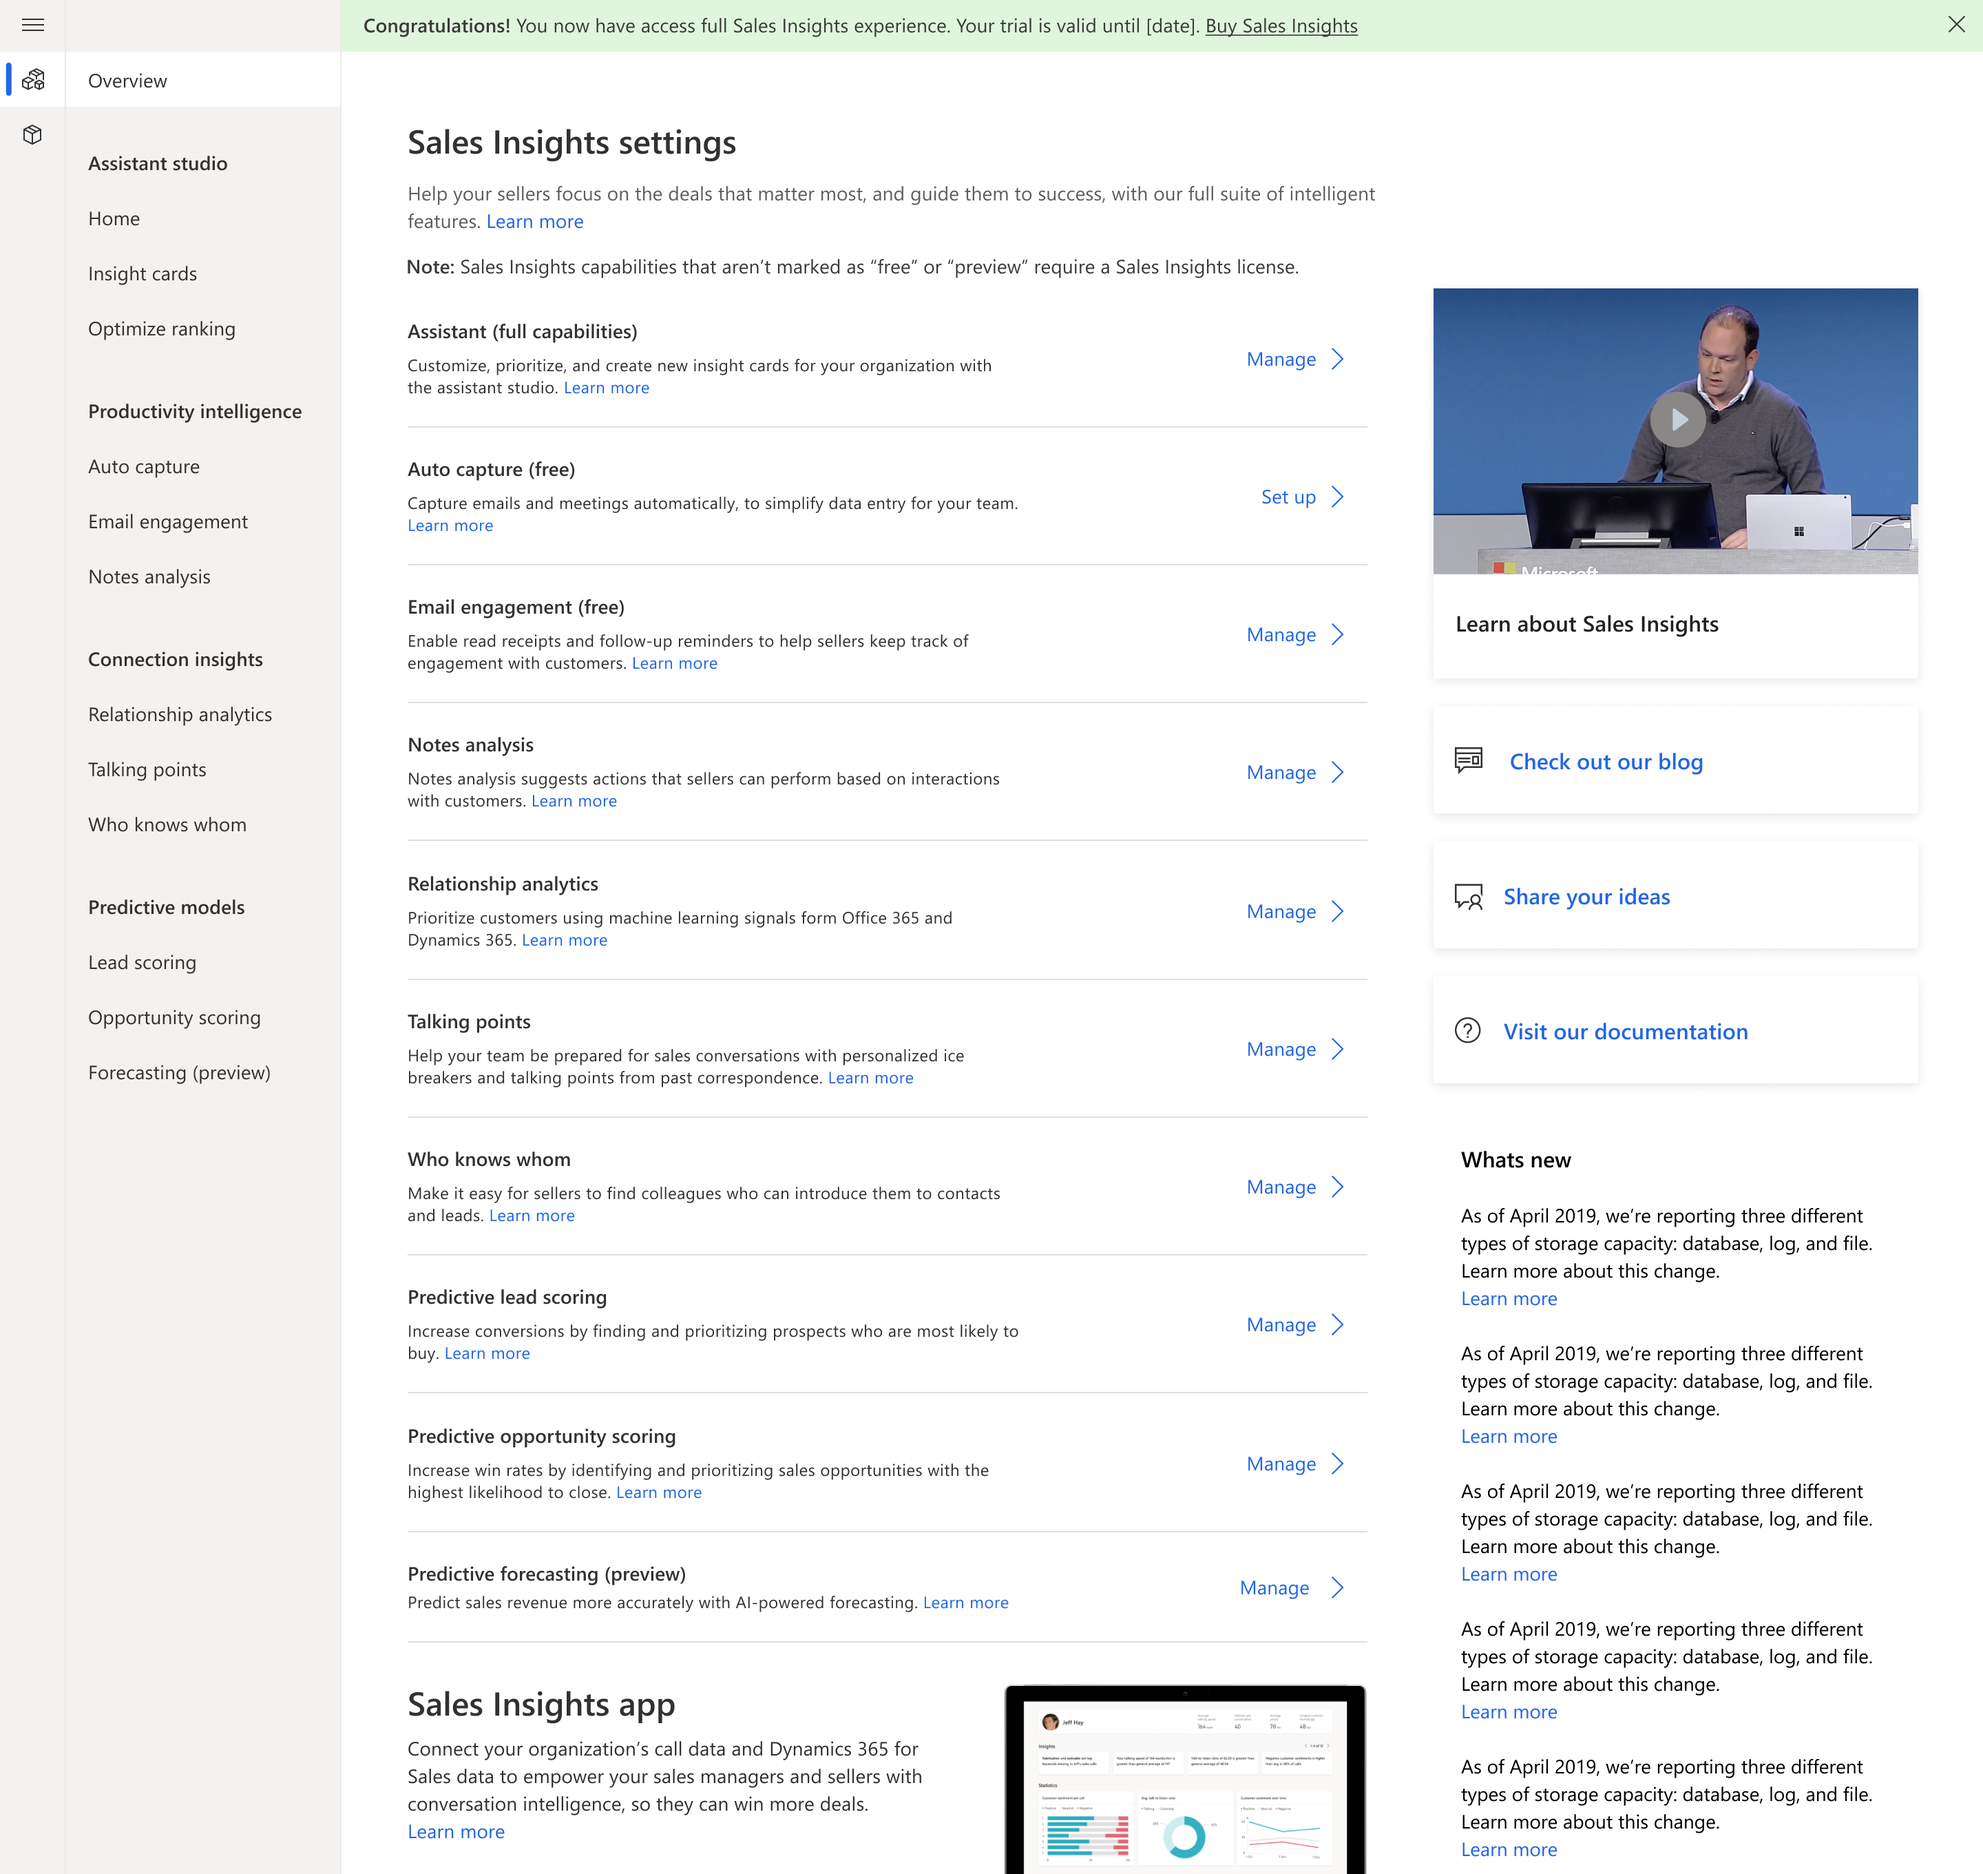
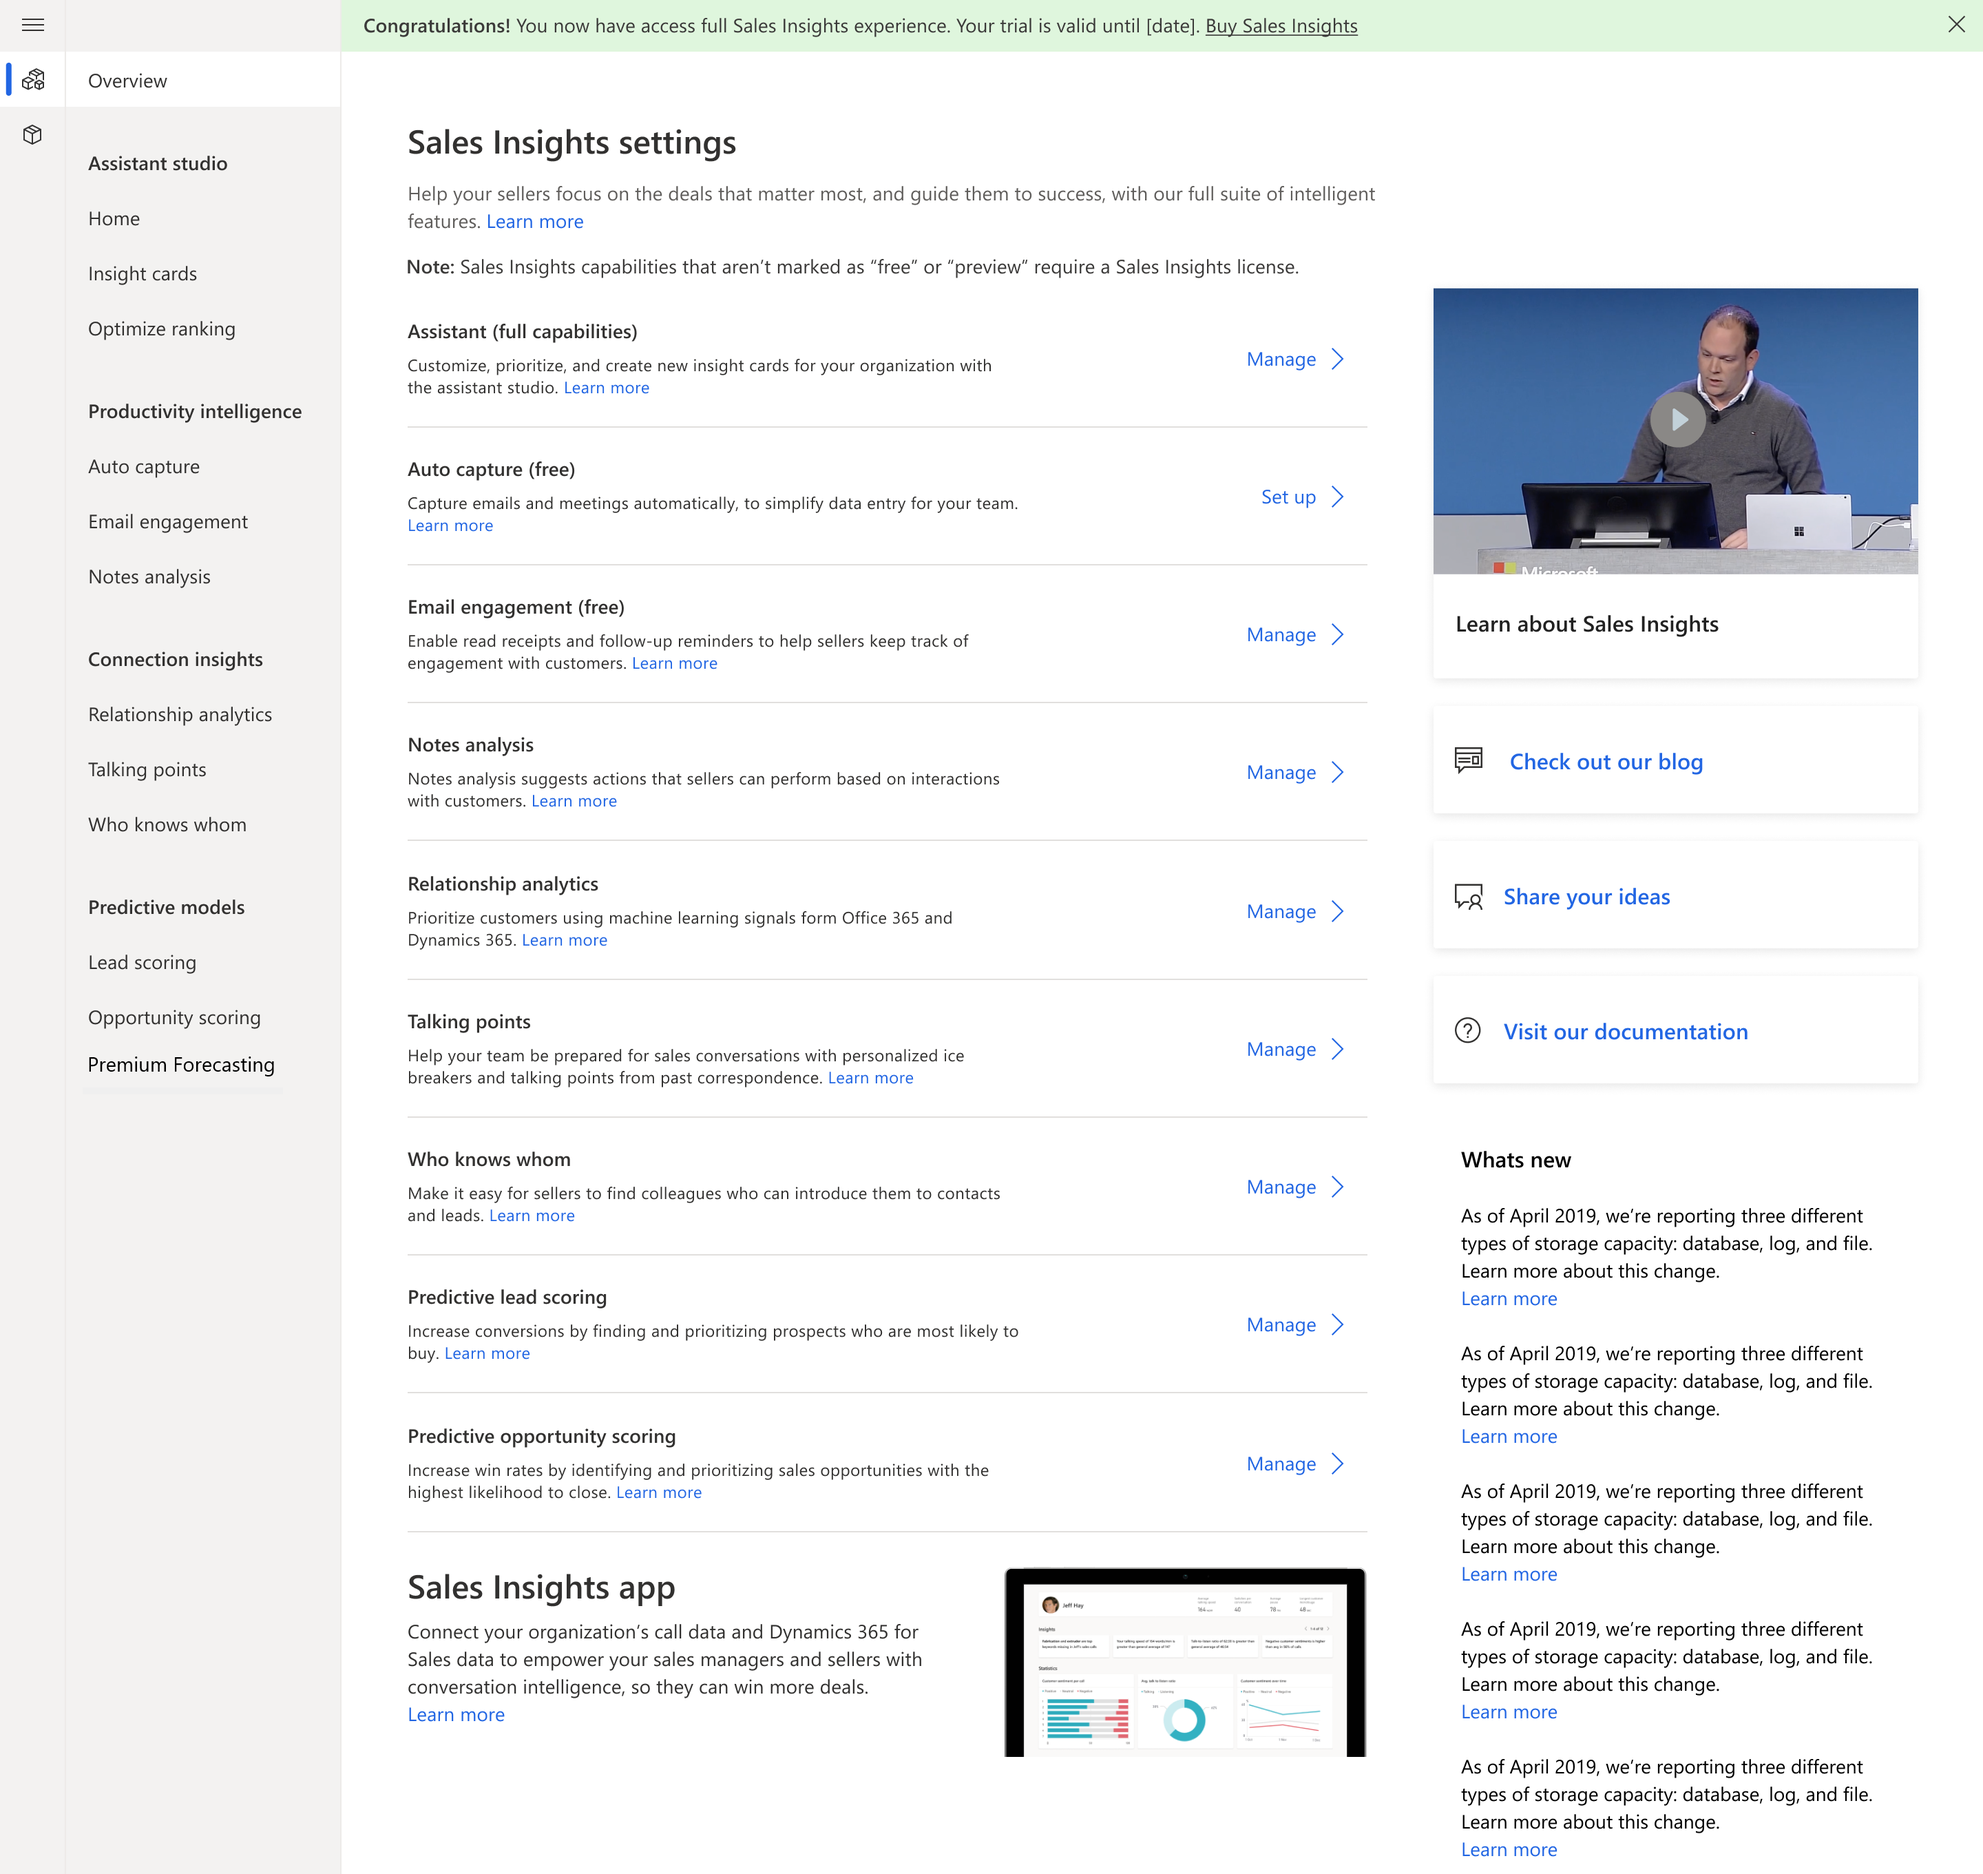
updated intro

Changed region(s): [[0.5, 0.8122, 0.6875, 1.0], [0.1875, 0.8122, 0.4688, 0.9684], [0.0625, 0.5623, 0.125, 0.5935]]

diff --git a/ai-docs/sales/help-hub.md b/ai-docs/sales/help-hub.md
@@ -45,6 +45,8 @@ search.app:
 <li><a href="configure-who-knows-whom.md" data-raw-source="[Configure Who knows whom](configure-who-knows-whom.md)">Configure Who knows whom</a></li>
 <li><a href="configure-predictive-lead-scoring.md" data-raw-source="[Configure Predictive lead scoring](configure-predictive-lead-scoring.md)">Configure Predictive lead scoring</a></li>
 <li><a href="configure-predictive-opportunity-scoring.md" data-raw-source="[Configure Predictive opportunity scoring](configure-predictive-opportunity-scoring.md)">Configure Predictive opportunity scoring</a></li>
+<li><a href="configure-premium-forecasting.md" data-raw-source="[Premium forecasting](configure-premium-forecasting.md)">Premium forecasting</a></li>
+<li><a href="manage-snapshots-forecast.md" data-raw-source="[Manage snapshots for a forecast](manage-snapshots-forecast.md)">Manage snapshots for a forecast</a></li>
 <li><a href="install-assistant-application-microsoft-teams.md" data-raw-source="[Install Dynamics 365 assistant application on Microsoft Teams](install-assistant-application-microsoft-teams.md)">Install Dynamics 365 assistant application on Microsoft Teams</a></li>
 <li><a href="fre-setup-sales-insight-app.md" data-raw-source="[First-run set up experience of Sales Insight application](fre-setup-sales-insight-app.md)">First-run set up experience of Sales Insight application</a></li>
 <li><a href="configure-conversation-intelligence-call-data.md" data-raw-source="[Configure conversation intelligence to connect call data](configure-conversation-intelligence-call-data.md)">Configure conversation intelligence to connect call data</a></li>
@@ -55,6 +57,9 @@ search.app:
 <li><a href="assistant.md" data-raw-source="[Use assistant to guide customer communications](assistant.md)">Use assistant to guide customer communications</a></li>
 <li><a href="work-predictive-lead-scoring.md" data-raw-source="[Prioritize leads using predictive scores](work-predictive-lead-scoring.md)">Prioritize leads using predictive scores</a></li>
 <li><a href="work-predictive-opportunity-scoring.md" data-raw-source="[Prioritize opportunities using predictive scores](work-predictive-opportunity-scoring.md)">Prioritize opportunities using predictive scores</a></li>
+<li><a href="analyze-revenue-outcome-using-predictive-forecasting.md" data-raw-source="[Analyze revenue outcome using predictive forecasting](analyze-revenue-outcome-using-predictive-forecasting.md)">Analyze revenue outcome using predictive forecasting</a></li>
+<li><a href="understand-forecast-projection-through-trend-chart.md" data-raw-source="[Understand forecast projection through trend chart](understand-forecast-projection-through-trend-chart.md)">Understand forecast projection through trend chart</a></li>
+<li><a href="analyze-deals-flow-between-snapshots.md" data-raw-source="[Analyze deals flow between snapshots](analyze-deals-flow-between-snapshots.md)">Analyze deals flow between snapshots</a></li>
 <li><a href="talking-points.md" data-raw-source="[Know conversation starters for your customers](talking-points.md)">Know conversation starters for your customers</a></li>
 <li><a href="who-knows-whom.md" data-raw-source="[Get introduced to a lead](who-knows-whom.md)">Get introduced to a lead</a></li>
 <li><a href="working-with-meetings-teams.md" data-raw-source="[Working with meetings](working-with-meetings-teams.md)">Working with meetings</a></li>

diff --git a/ai-docs/sales/overview.md b/ai-docs/sales/overview.md
@@ -54,6 +54,8 @@ The advanced Sales Insights features consist of the [free Sales Insights feature
 
 - **Predictive opportunity scoring**: Helps you to focus on revenue generation efforts by providing a score to prioritize efforts on quality opportunities. To learn more, see [Prioritize opportunities through scores](work-predictive-opportunity-scoring.md). 
 
+- **Premium forecasting**: Helps you to focus on revenue generation efforts by providing forecast projections based on sales pipeline and historical data. To learn more, see [Analyze revenue outcome using predictive forecasting](analyze-revenue-outcome-using-predictive-forecasting.md).
+
 - **Notes analysis**: Monitors notes that you enter regarding a recent meeting or discussion with your customer to provide intelligent suggestions. To learn more, see [How notes analysis assists you with suggestion](notes-analysis.md). 
 
 - **Talking points**: Displays topics to start a conversation with your customer such as sports, vacation, family, and entertainment. To learn more, see [Know conversation starters for your customers](talking-points.md). 

diff --git a/ai-docs/sales/intro-admin-guide-sales-insights.md b/ai-docs/sales/intro-admin-guide-sales-insights.md
@@ -178,6 +178,8 @@ After enabling the advanced Sales Insights features, you can configure the advan
 
 -	To configure Predictive opportunity scoring, see [Configure Predictive opportunity scoring](configure-predictive-opportunity-scoring.md).
 
+-   To configure premium forecasting, see [About premium forecasting](configure-premium-forecasting.md).
+
 
 ## Administer Sales Insights application
 
